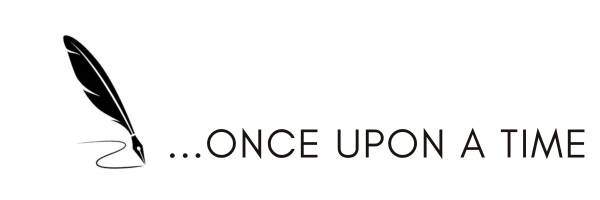
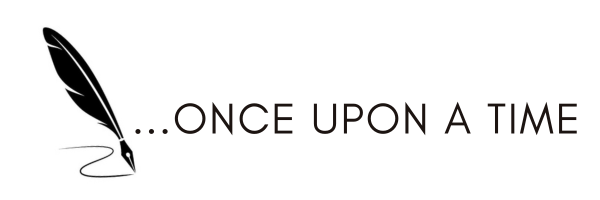
Add files via upload

Changed region(s): [[0.06, 0.12, 0.99, 0.9]]

diff --git a/index.html b/index.html
@@ -94,7 +94,7 @@
 
 <section>
  <h2>Announcements!</h2>
-  <img src="header.png" alt="Announcements!" class="announcement-header">
+  <img src="writerscycle.png" alt="Announcements!" class="announcement-header">
   <p>We host Workshops, bootcamps, and community events designed for writers across Africa. 
 
 </section>
